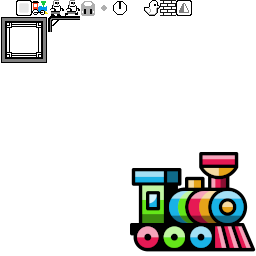
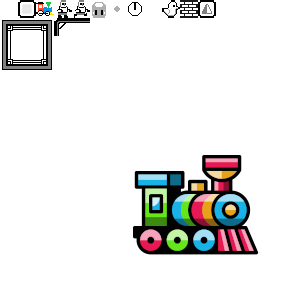
The 3d and empty examples use the shared padded tile sheet, 3d with setTileDefaultPadding(1) in place of the half pixel bleed

diff --git a/examples/3d/game.js b/examples/3d/game.js
@@ -9,8 +9,8 @@
 
 'use strict';
 
-// pull in edges to prevent bleeding from neighboring tiles
-setTileDefaultBleed(.5);
+// each tile in tiles.png has a 1 pixel border, which stops texture bleeding
+setTileDefaultPadding(1);
 
 const terrainSize = 600, terrainHeight = 24, orbCount = 40;
 const soundCollect = new Sound([,,,.02,,.5,,3,,-50,40,,.05]);
